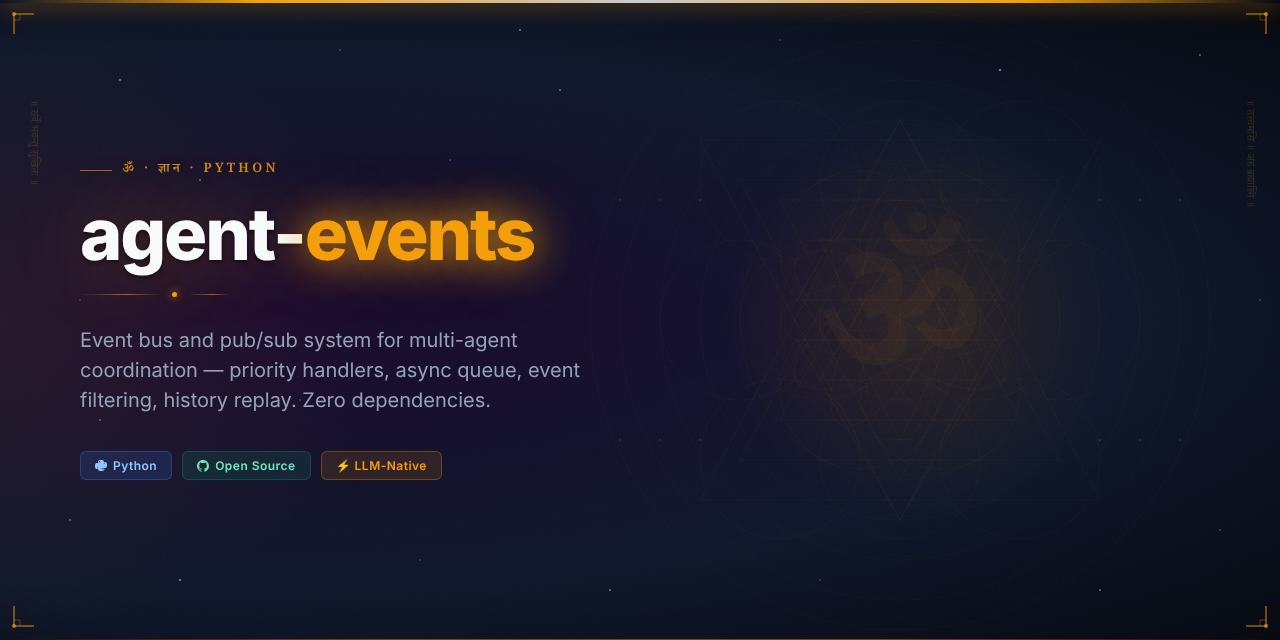
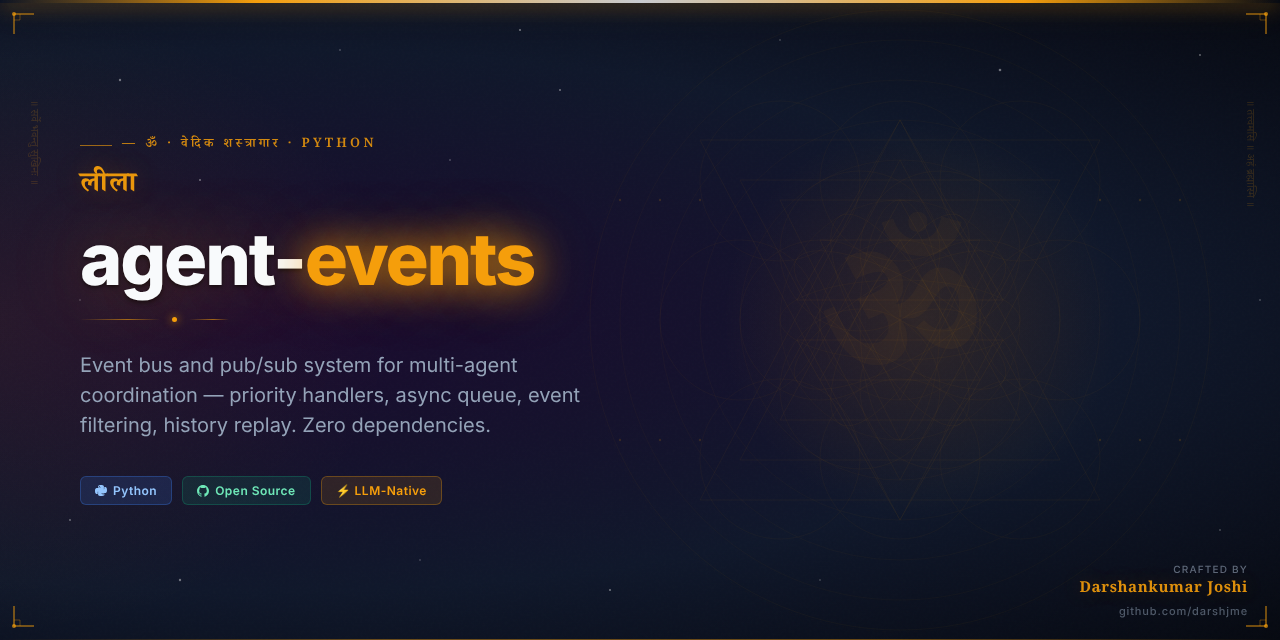
feat: add Vedic Arsenal hero image and updated README
Part of darshjme/arsenal — 100 production-grade Python libraries for LLM agents.
Vedic branding: ancient philosophy meets modern AI engineering.

diff --git a/README.md b/README.md
@@ -1,10 +1,12 @@
 <div align="center">
 
-<img src="assets/agent-events-hero.png" alt="agent-events — Vedic Arsenal" width="100%" />
+<img src="assets/agent-events-hero.png" alt="agent-events — Vedic Arsenal by Darshankumar Joshi" width="100%" />
 
 # ⚡ agent-events
 
-### *लीला* — Leela — the divine play of events
+<h3><em>लीला</em></h3>
+
+> *Leela — the divine play of events*
 
 **Event bus and pub/sub system for multi-agent coordination — priority handlers, async queue, event filtering, history replay. Zero dependencies.**
 
@@ -39,6 +41,19 @@ Or clone directly:
 git clone https://github.com/darshjme/agent-events.git
 cd agent-events
 pip install -e .
+```
+
+## How It Works
+
+```mermaid
+flowchart LR
+    A[Publisher] --> B[Event Bus]
+    B --> C[Handler 1]
+    B --> D[Handler 2]
+    B --> E[Handler 3]
+    B --> F[History Replay]
+    C & D & E --> G[Ack]
+    style B fill:#f59e0b,color:#000
 ```
 
 ## Quick Start
@@ -90,7 +105,7 @@ MIT — use freely, build freely.
 
 <div align="center">
 
-**Built with ⚡ by [Darshankumar Joshi](https://github.com/darshjme)**
+**Built with ⚡ by [Darshankumar Joshi](https://github.com/darshjme)** · [@thedarshanjoshi](https://twitter.com/thedarshanjoshi)
 
 *"कर्मण्येवाधिकारस्ते मा फलेषु कदाचन"*
 *Your right is to action alone, never to the fruits thereof.*
